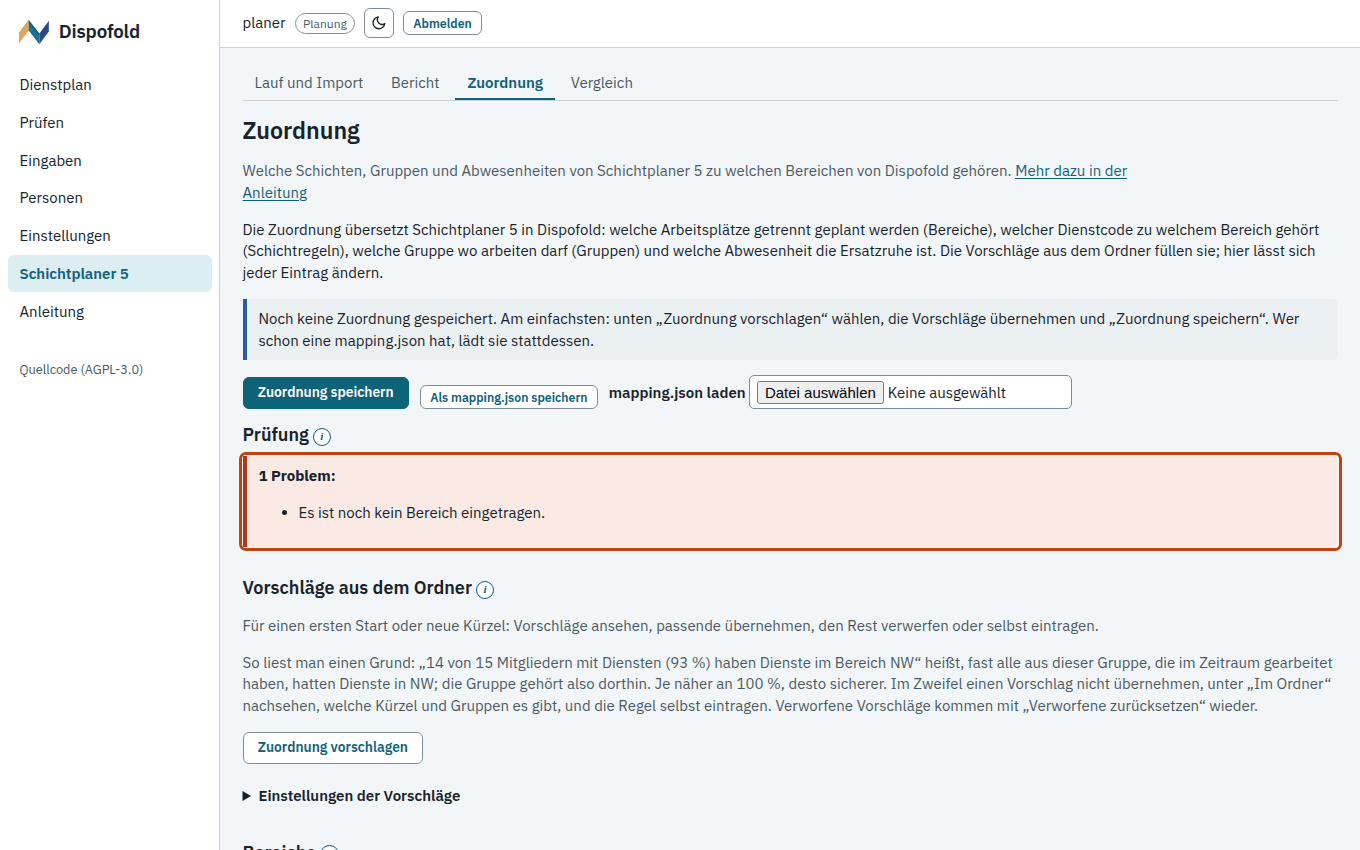
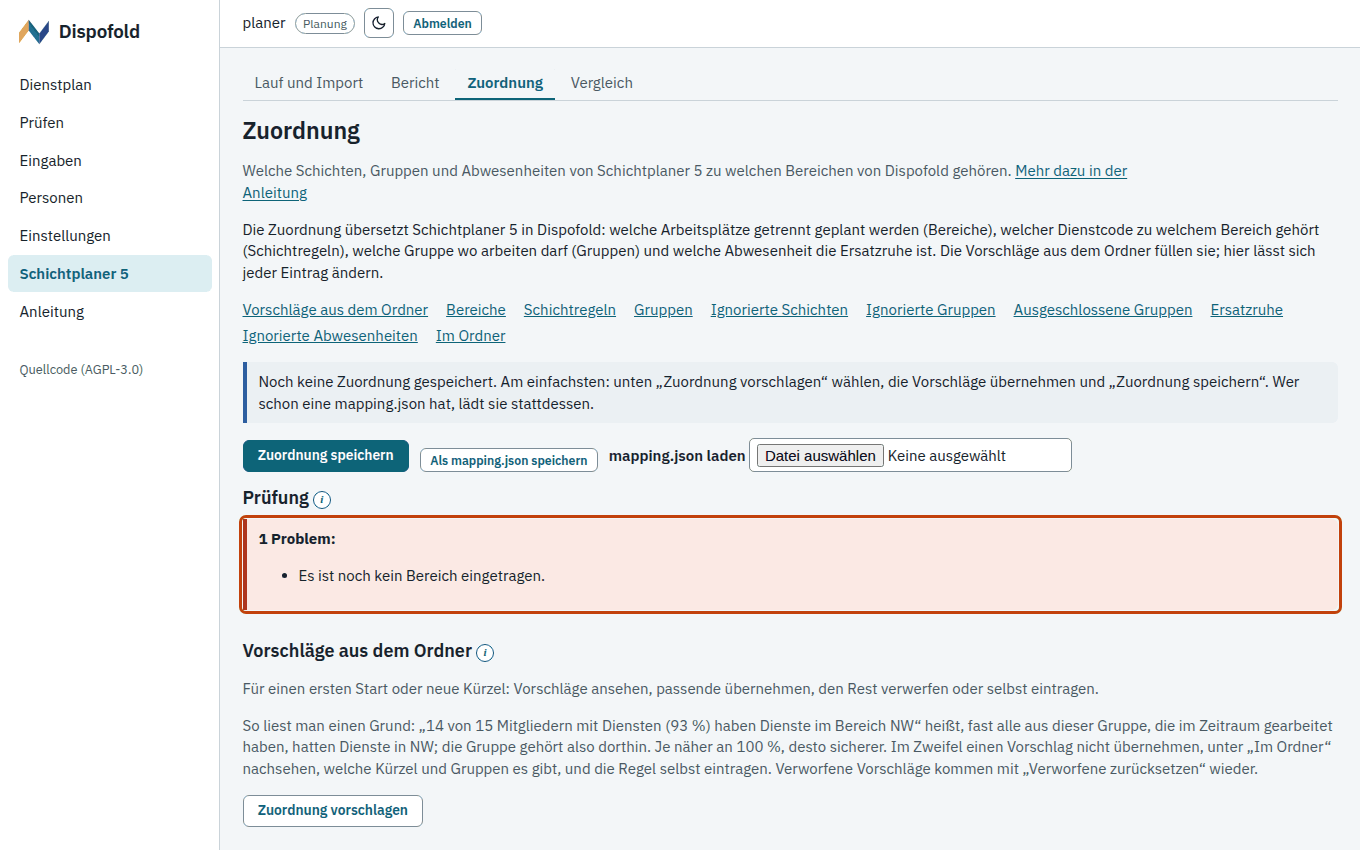
Guide pictures of the import plugin taken again from a fresh synthetic instance with the new defaults; changelog

Changed region(s): [[0.1544, 0.3365, 0.9882, 0.9788]]

diff --git a/CHANGELOG.md b/CHANGELOG.md
@@ -3,6 +3,22 @@
 Jede Version steht auch als Release auf GitHub, mit Images, Installationsdateien und Prüfsummen. Installation
 und Update: [docs/betrieb.md](docs/betrieb.md).
 
+## 0.25.0 (2026-11-25)
+
+- **Woher die Bereiche einer Person kommen:** Die mitgelieferte Import-Erweiterung hat die Option „Bereiche einer
+  Person aus“: aus den Gruppen (wie bisher), aus der Historie (nur Bereiche, in denen jemand genug Dienste hatte),
+  oder aus der Historie mit den übrigen Bereichen der Gruppen als Reserve, deren Schichten nur auf Anfrage sind.
+  Neue Einstellungen nehmen die Reserve, gespeicherte rechnen weiter wie bisher. Wer in keinem Bereich auf die Zahl
+  kommt, etwa neu, behält die Bereiche seiner Gruppen.
+- **Personenseite:** Neben jedem angekreuzten Bereich steht, woher er kommt (eine Gruppe, die Historie mit der Zahl
+  der Dienste, „von Hand“), und ob seine Schichten nur oder teilweise auf Anfrage sind. Ein Haken heißt
+  „grundsätzlich möglich“; wie, sagen die Einschränkungen.
+- **Import für Einsteiger:** Die Optionen erklären sich mit Beispielen, die selten gebrauchten stehen unter
+  „Erweitert“. Die Zuordnung hat Sprunglinks zu ihren Abschnitten, nach einem Lauf steht nur eine Aussage zur
+  Korrekturdatei, und oben im Bericht steht, ob der Lauf in Ordnung aussieht und was man zuerst ansieht.
+- **Vorschläge der Zuordnung:** Eine Schicht ohne Zeitraum im Kürzel und ohne Bedarf (etwa Ausbildung) wird zum
+  Ignorieren vorgeschlagen, abschaltbar.
+
 ## 0.24.0 (2026-11-24)
 
 - **Zuordnung vorschlagen aus Schichtnamen:** Die mitgelieferte Import-Erweiterung schlägt Bereiche jetzt auch aus
